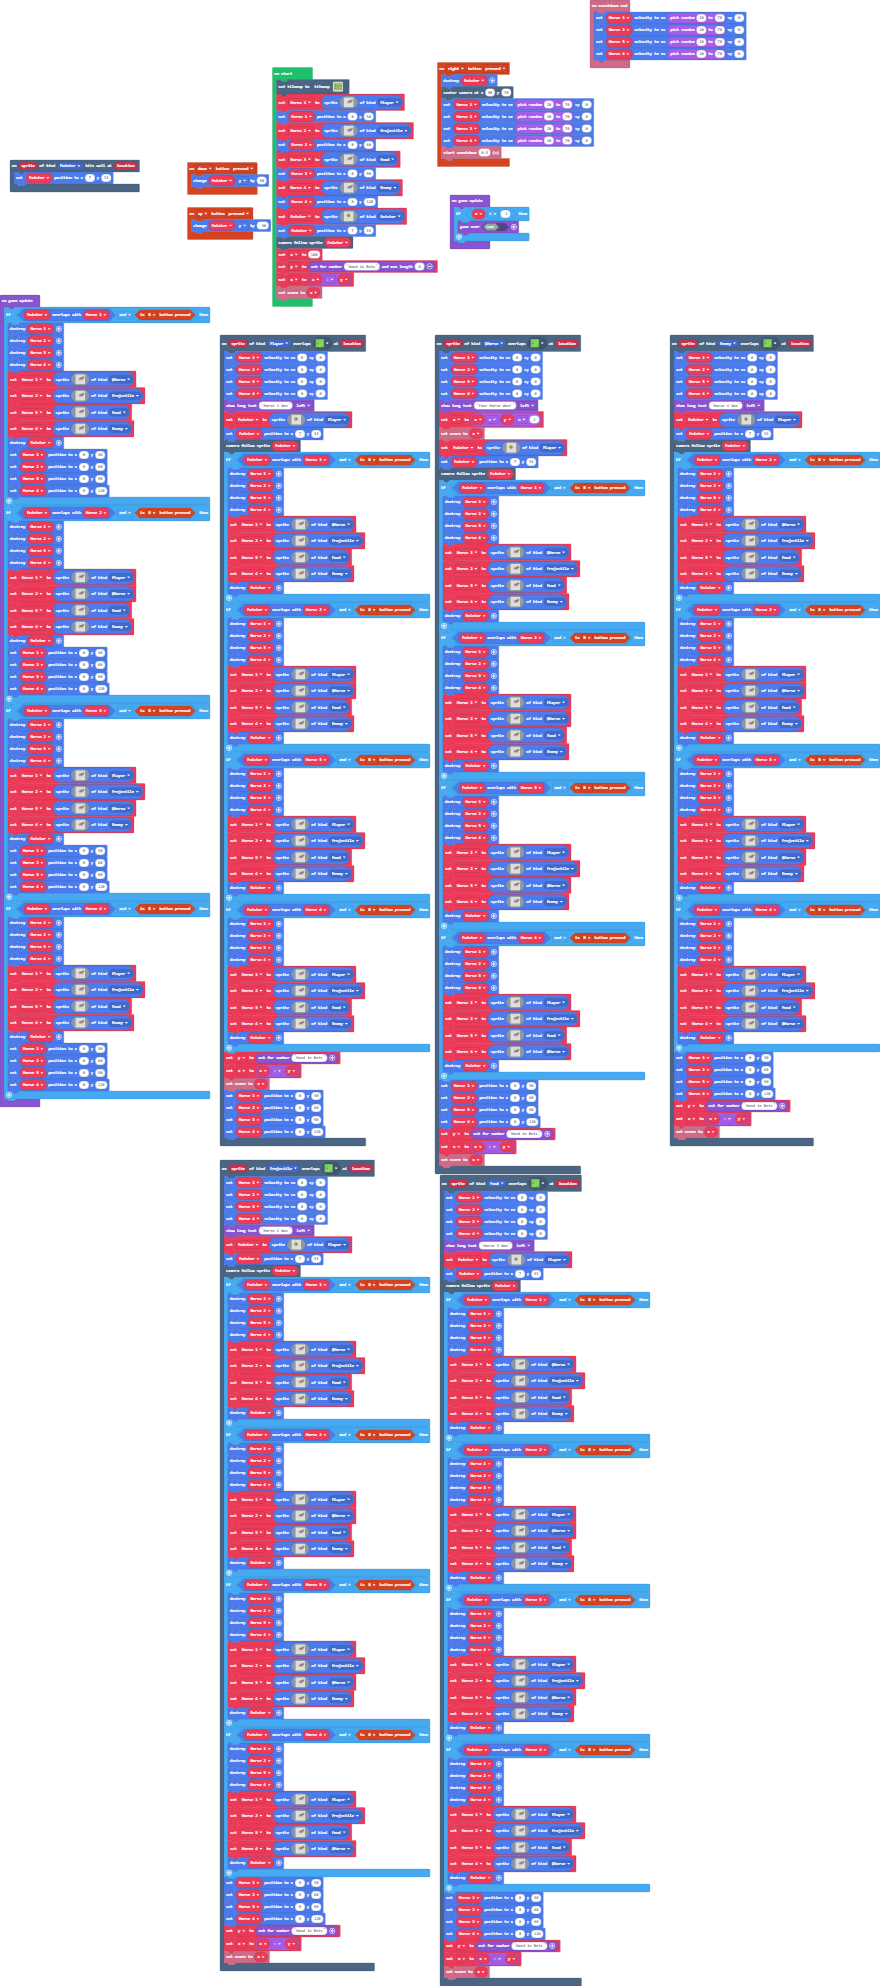
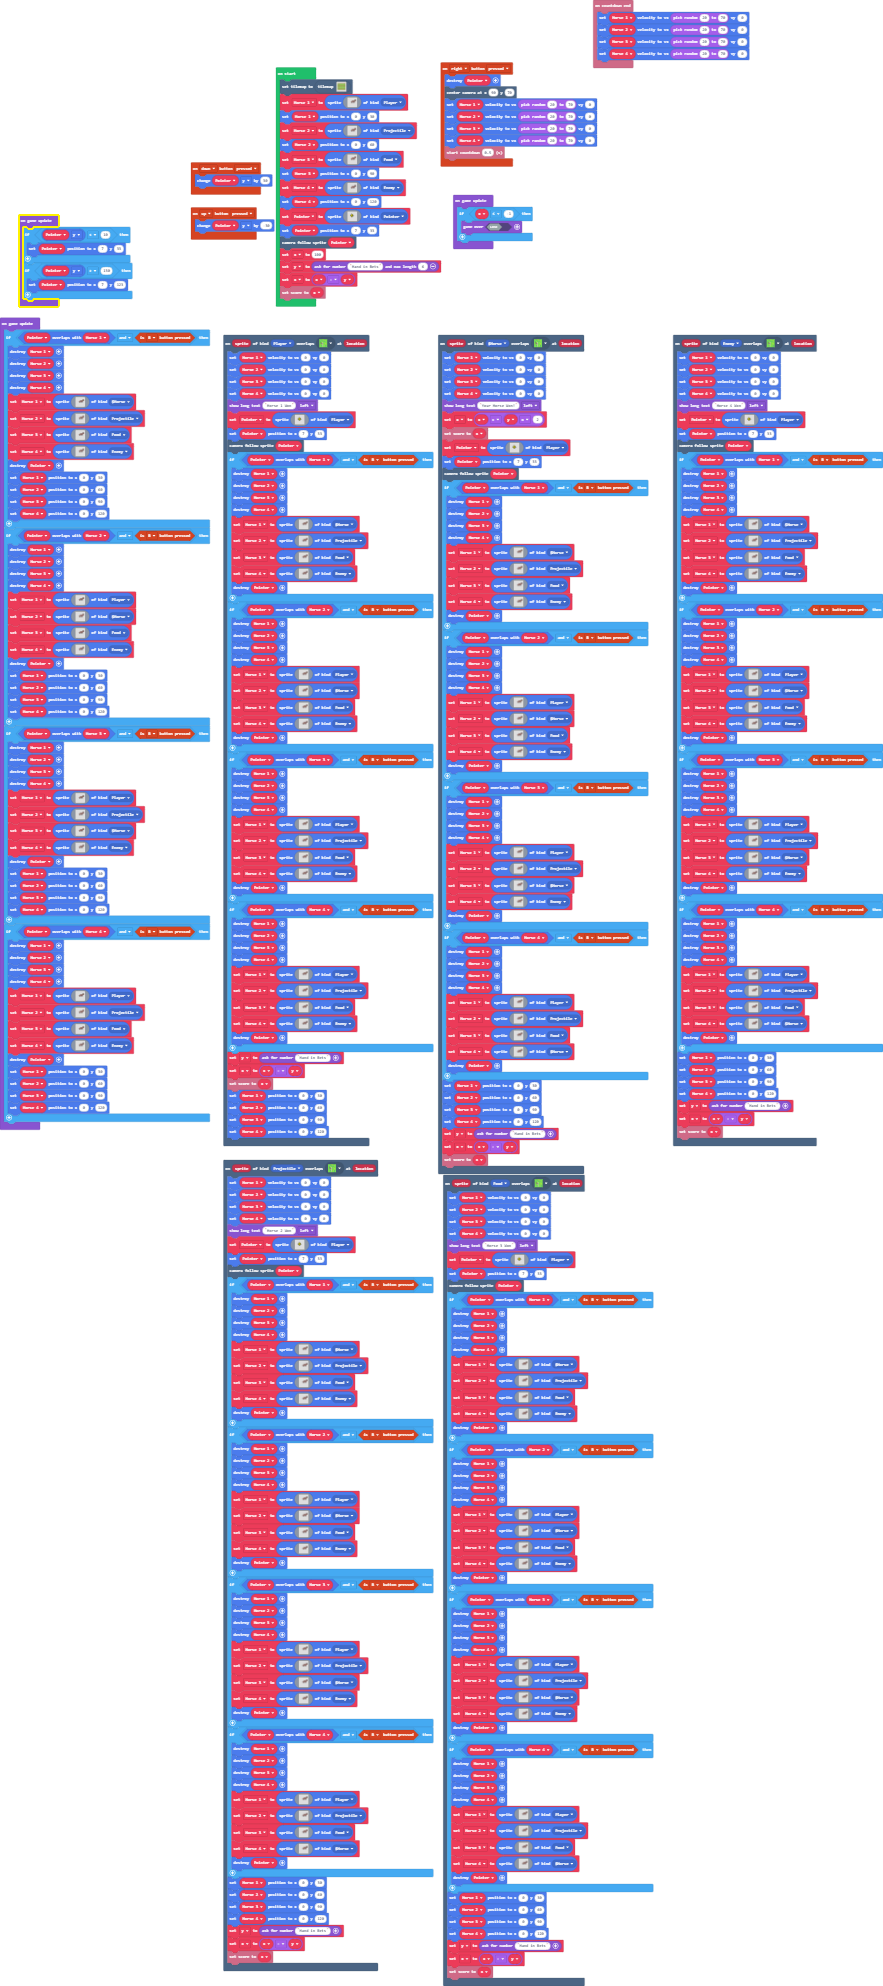
Update main.blocks, main.ts, tilemap.g.jres, tilemap.g.ts

diff --git a/tilemap.g.ts b/tilemap.g.ts
@@ -62,8 +62,7 @@ namespace myTiles {
 . . . . . . . . . . . . . . . . 
 `, [myTiles.transparency16], TileScale.Sixteen);
             case "level1":
[1 lines of base64/hex data omitted]
-2 . . . . . . . . . . 
[1 lines of base64/hex data omitted]
 . . . . . . . . . . . 
 . . . . . . . . . . . 
 . . . . . . . . . . . 
@@ -71,8 +70,9 @@ namespace myTiles {
 . . . . . . . . . . . 
 . . . . . . . . . . . 
 . . . . . . . . . . . 
-2 . . . . . . . . . . 
-`, [myTiles.transparency16,sprites.castle.tileGrass3,sprites.castle.tileGrass1,myTiles.tile3,myTiles.tile4,myTiles.tile10,myTiles.tile1,myTiles.tile6,myTiles.tile5,myTiles.tile7], TileScale.Sixteen);
+. . . . . . . . . . . 
+. . . . . . . . . . . 
+`, [myTiles.transparency16,sprites.castle.tileGrass3,sprites.castle.tileGrass1,myTiles.tile3,myTiles.tile4,myTiles.tile10,myTiles.tile1,myTiles.tile6,myTiles.tile5,myTiles.tile7,sprites.castle.tileGrass2], TileScale.Sixteen);
         }
         return null;
     })

diff --git a/main.ts b/main.ts
@@ -5,9 +5,6 @@ namespace SpriteKind {
 controller.up.onEvent(ControllerButtonEvent.Pressed, function () {
     Pointer.y += -30
 })
-scene.onHitWall(SpriteKind.Pointer, function (sprite, location) {
-    Pointer.setPosition(7, 33)
-})
 info.onCountdownEnd(function () {
     Horse_1.setVelocity(randint(20, 70), 0)
     Horse_2.setVelocity(randint(20, 70), 0)
@@ -3230,6 +3227,14 @@ x = 100
 y = game.askForNumber("Hand in Bets", 6)
 x = x - y
 info.setScore(x)
+game.onUpdate(function () {
+    if (Pointer.y < 10) {
+        Pointer.setPosition(7, 33)
+    }
+    if (Pointer.y > 130) {
+        Pointer.setPosition(7, 123)
+    }
+})
 game.onUpdate(function () {
     if (x <= -1) {
         game.over(false)
